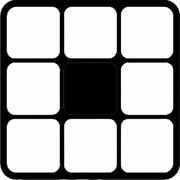
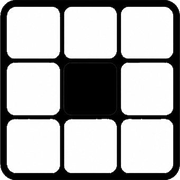
Add files via upload

diff --git a/index.html b/index.html
@@ -1271,7 +1271,13 @@ function checkWin() {
 
   setTimeout(() => {
     document.getElementById('win-time-display').textContent = fmtTime(timerSec);
-    // Hide form if already submitted today
+    // Reset form to visible first, then check if already submitted for THIS size
+    document.getElementById('lb-form').style.display = 'block';
+    document.getElementById('lb-submitted-msg').style.display = 'none';
+    const submitBtn = document.getElementById('btn-submit-lb');
+    submitBtn.disabled = false;
+    submitBtn.textContent = 'Add to leaderboard';
+    // Now check if this specific size was already submitted today
     const submitted = localStorage.getItem(`nonogram_lb_submitted_${currentSize}_${TODAY}`);
     if (submitted) {
       document.getElementById('lb-form').style.display = 'none';

diff --git a/about.html b/about.html
@@ -370,7 +370,7 @@ footer a:hover { color: var(--ink); }
       <p class="meta-text">
         Juulian<br>
         St. Gallen, Switzerland<br>
-        <a href="mailto:[email redacted]">[email redacted]</a>
+        <a href="mailto:[email redacted]">[email redacted]</a>
       </p>
     </div>
 
@@ -393,7 +393,7 @@ footer a:hover { color: var(--ink); }
         This site contains <strong>affiliate links</strong> to Amazon. If you purchase a product through one of these links, nonogram.ch may earn a small commission at no extra cost to you.
       </p>
       <p class="meta-text">
-        For questions about your data, contact <a href="mailto:[email redacted]">[email redacted]</a>.
+        For questions about your data, contact <a href="mailto:[email redacted]">[email redacted]</a>.
       </p>
     </div>
 